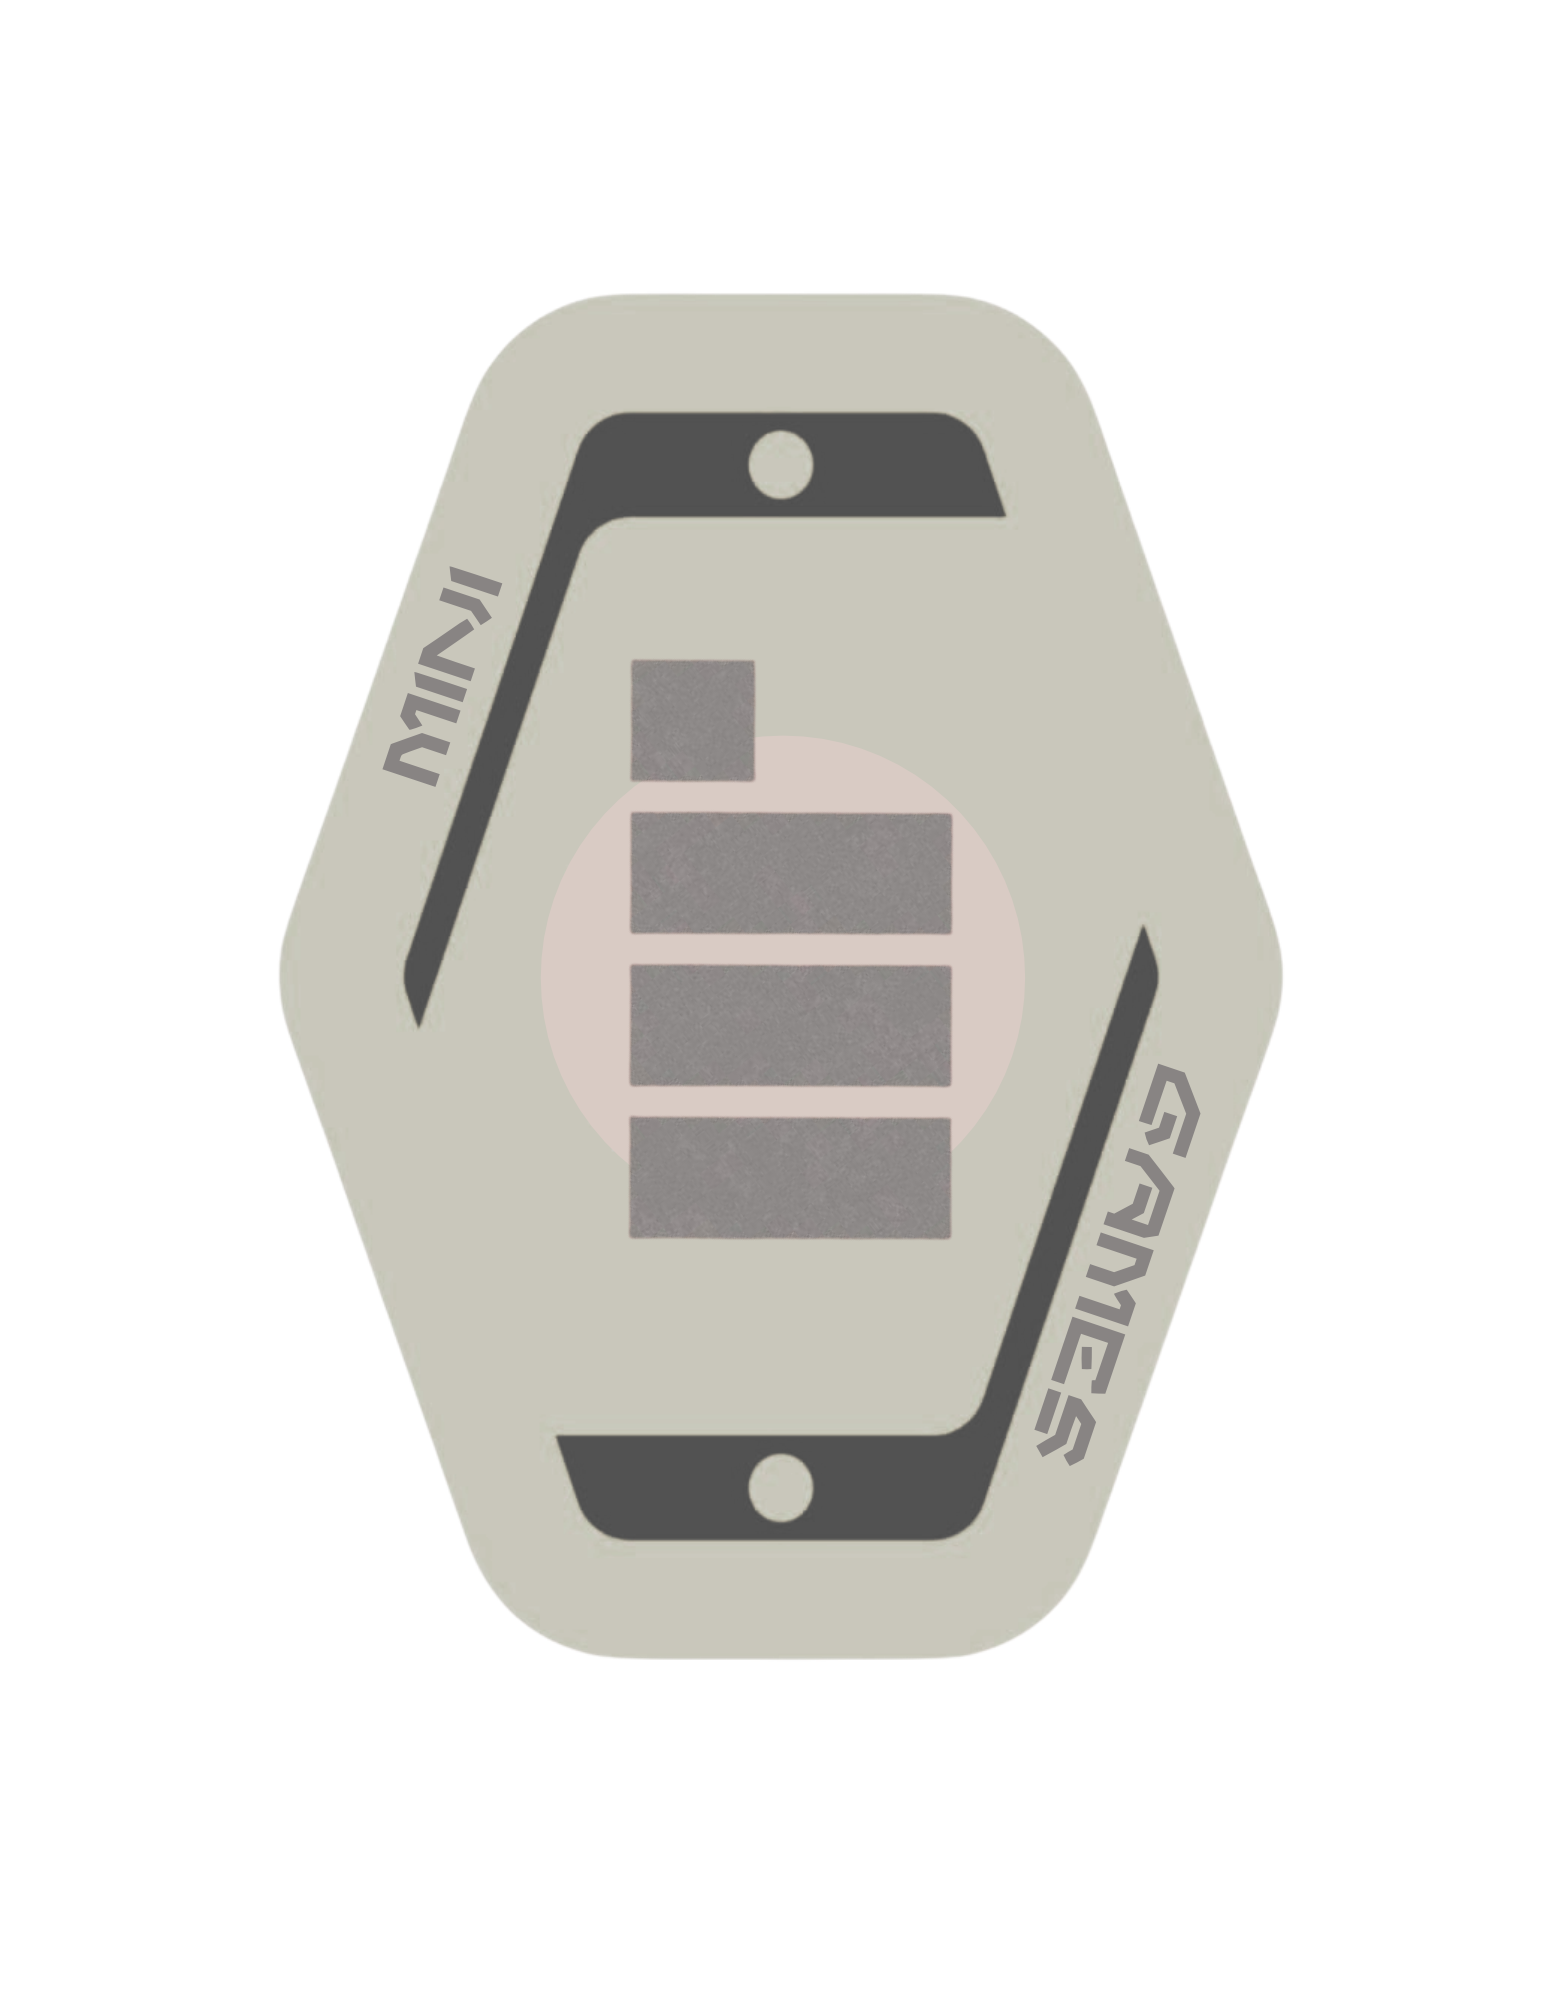
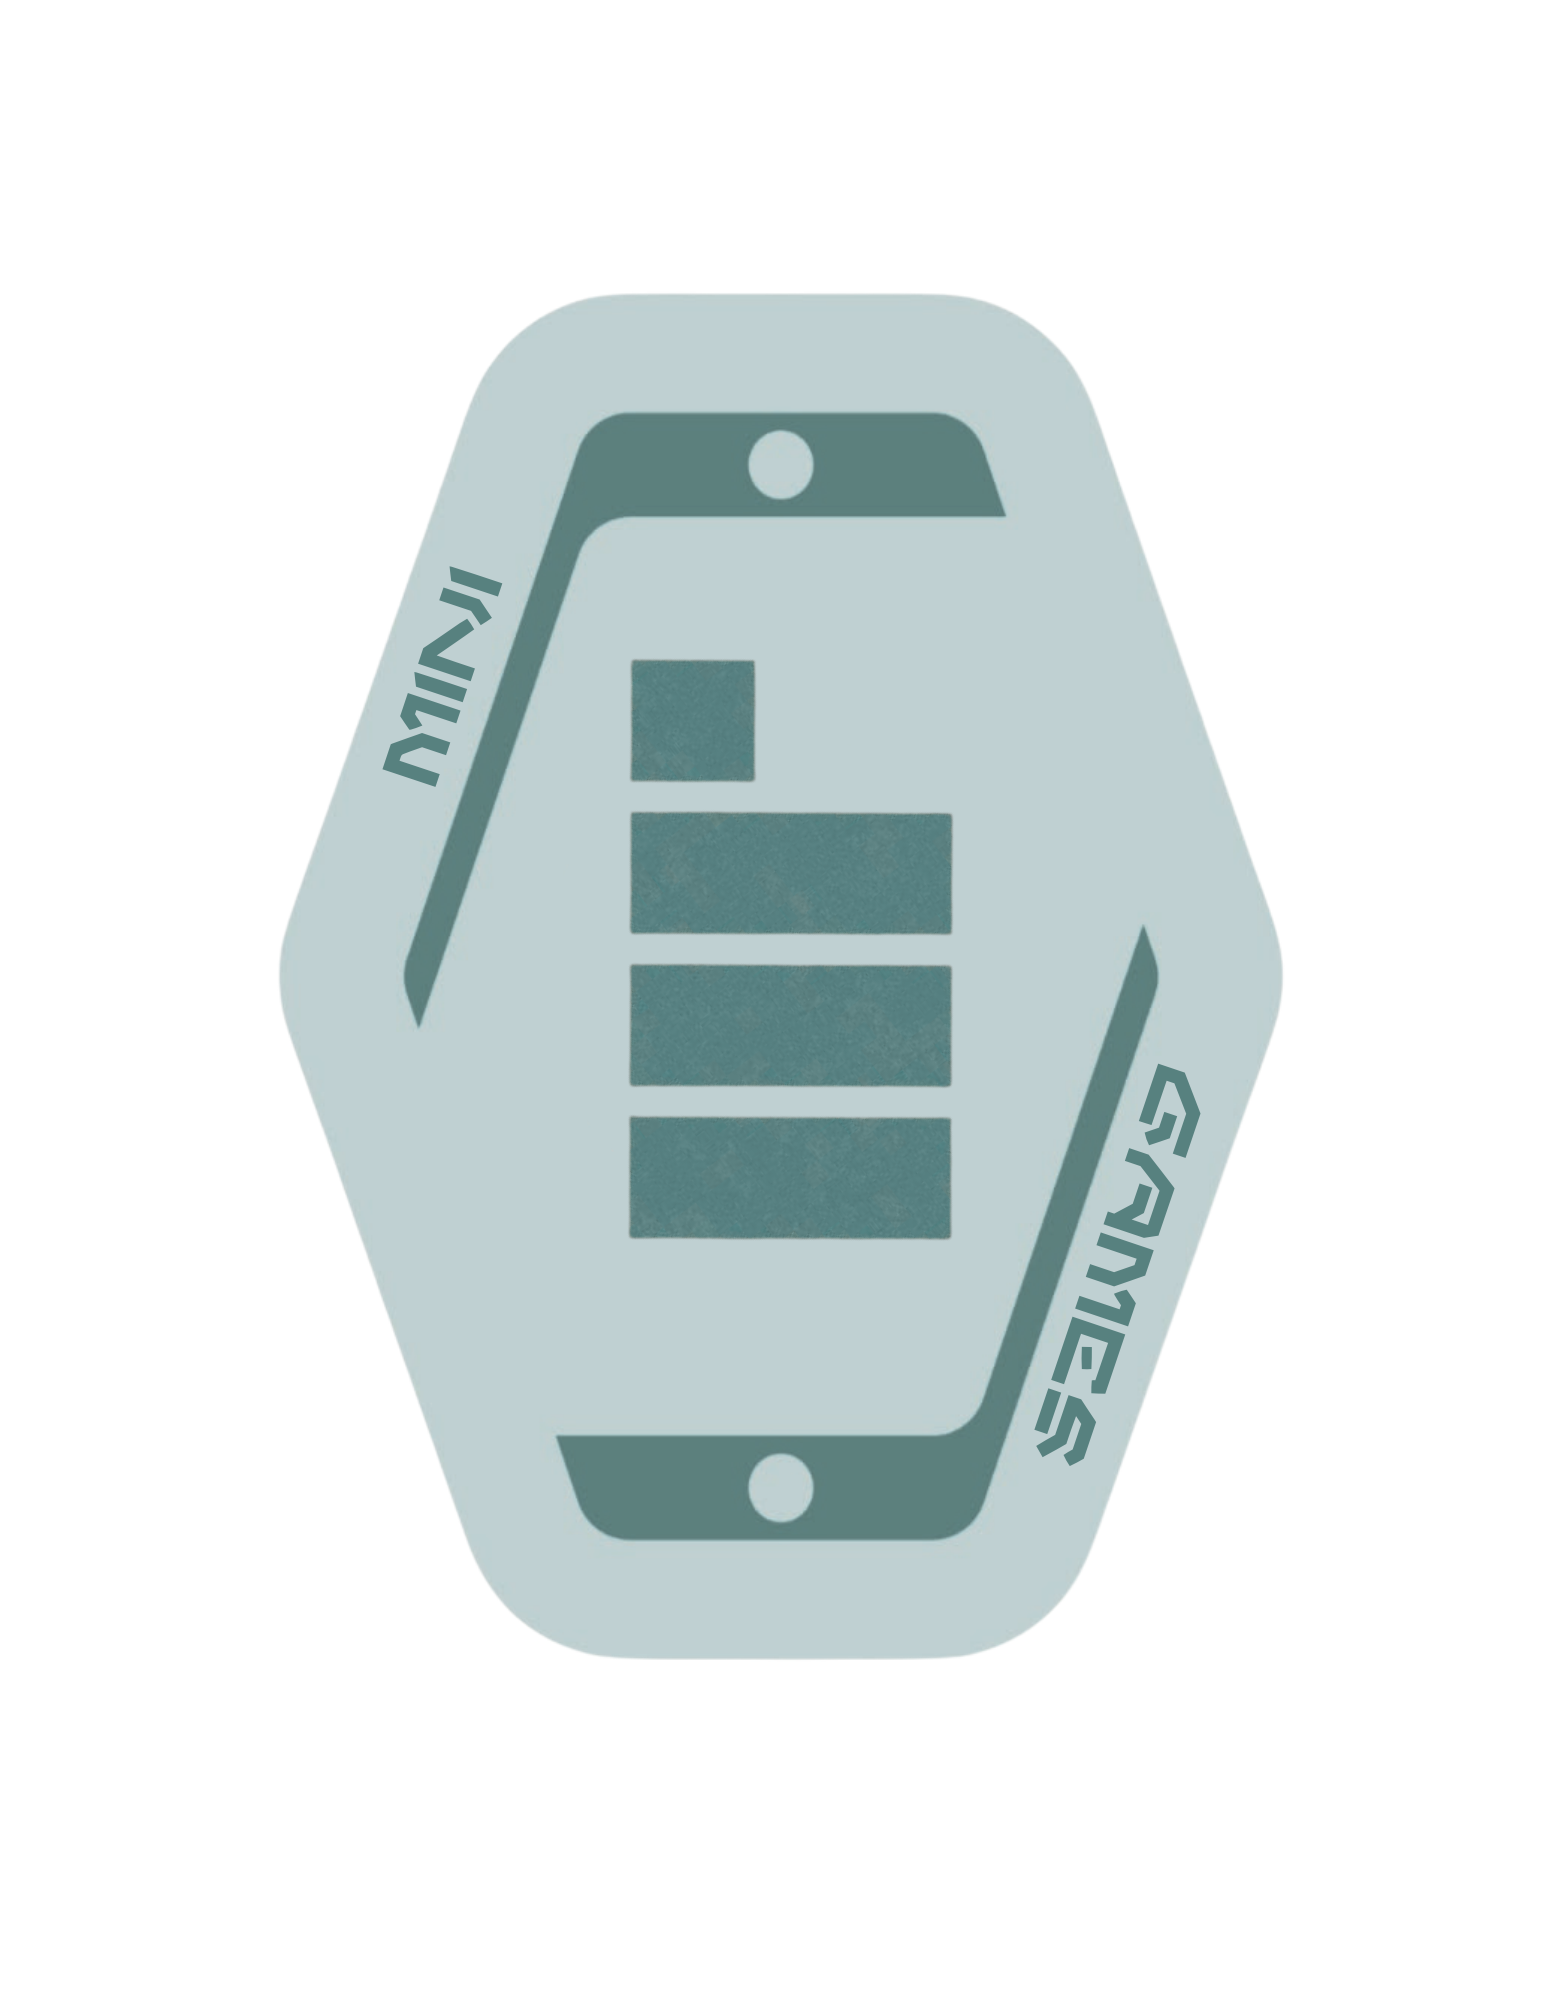
Add interactive Sabacc choice cards and hex tables in 0.7.24

Changed region(s): [[0.3417, 0.3102, 0.7767, 0.7754], [0.2485, 0.1861, 0.6524, 0.5273], [0.1864, 0.5273, 0.2175, 0.5583]]

diff --git a/docs/RELEASE_NOTES.md b/docs/RELEASE_NOTES.md
@@ -1,9 +1,8 @@
-SWU Sabacc 0.7.23
+SWU Sabacc 0.7.24
 
-- Sabacc War now plays at a full-screen Cantina table with the Cantina band, animated deals and flips, shrinking decks, and a live credit counter.
-- The fourth PLAY card opens Mini Games. Clear Episode I, Chapter 1 to unlock Sabacc War for account credits. The Tatooine encounter uses its run wallet.
-- Episode IV Chapter 2 offers distinct 20-card starters, with Rugged Survivors removed. Chewbacca's leader action now checks which cards can actually be played.
-- Updated the Saga routes and automated more campaign card effects. Queen Amidala, Vuutun Palaa, and Darth Maul still show incomplete rules support.
-- The Android APK uses version code 33 and the existing signing identity. Extract the Windows ZIP and keep the EXE and PCK together.
+- New Mini Games card artwork in PLAY.
+- Play the illustrated Yes and No cards directly to resolve campaign decisions.
+- Sabacc War and campaign choice cards use a hexagonal wooden table. In War, drag from the player deck and tap your dealt card to reveal.
+- The Android APK uses version code 34 and the existing signing identity. Extract the Windows ZIP and keep the EXE and PCK together.
 
 Unofficial, non-commercial fan project. Star Wars and Star Wars: Unlimited characters, card text and artwork belong to Lucasfilm Ltd. and Fantasy Flight Games.
